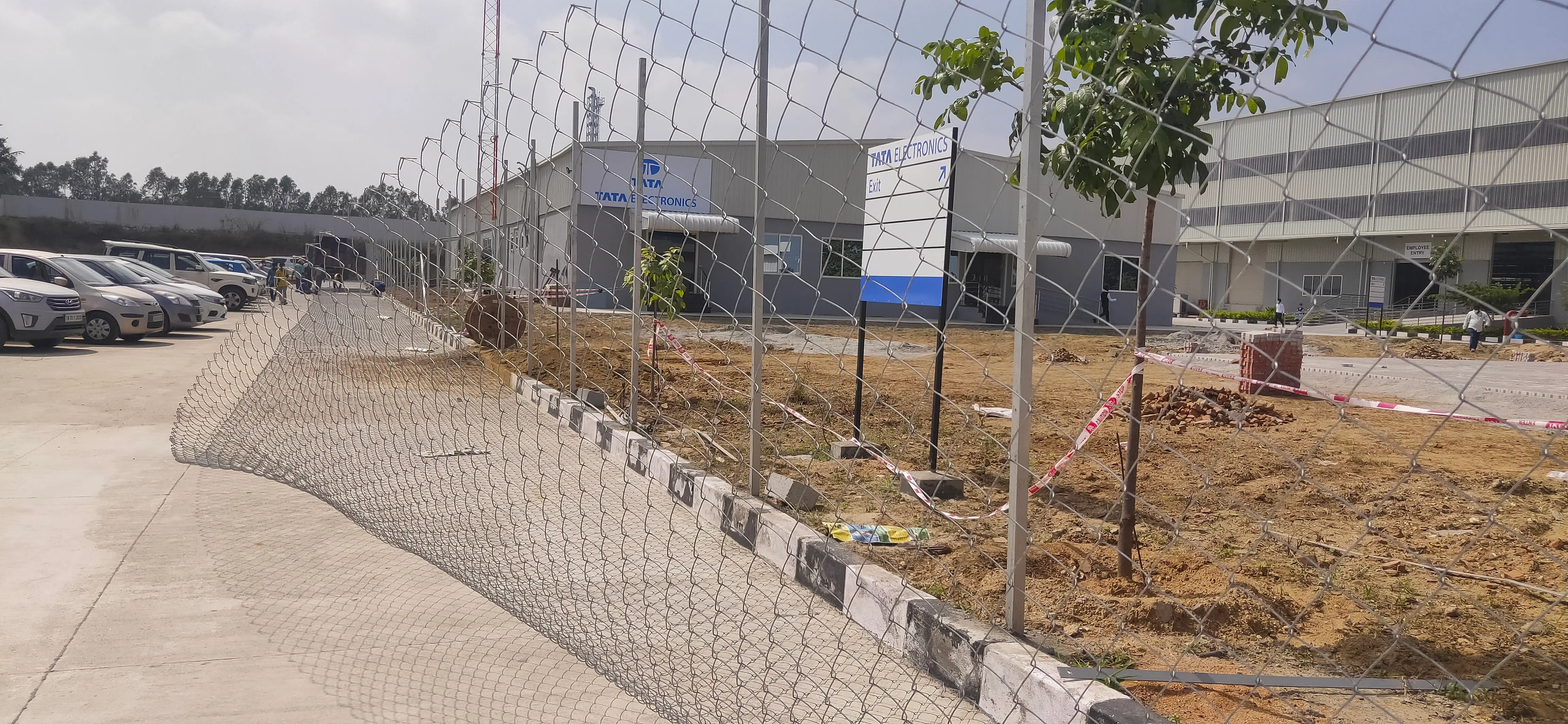
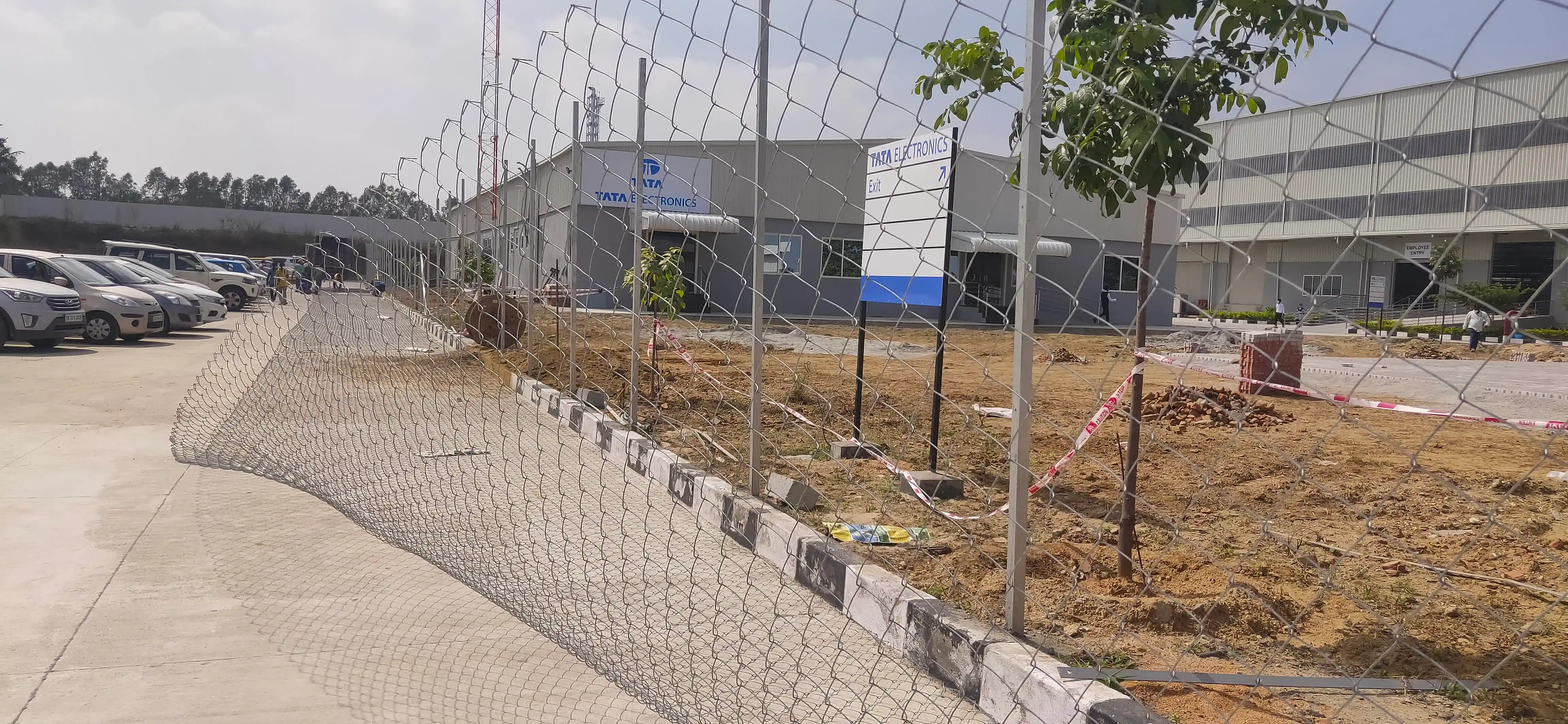
updated documentation for clarity

diff --git a/src/components/GsapAnimations.tsx b/src/components/GsapAnimations.tsx
@@ -7,6 +7,7 @@ import { ScrollTrigger } from "gsap/ScrollTrigger";
 export function GsapAnimations() {
   useEffect(() => {
     if (typeof window === "undefined") return;
+
     gsap.registerPlugin(ScrollTrigger);
 
     const prefersReduced = window.matchMedia(
@@ -14,8 +15,11 @@ export function GsapAnimations() {
     ).matches;
 
     const ctx = gsap.context(() => {
+      // ------------------------------------------------------------------
       // Scroll progress bar
+      // ------------------------------------------------------------------
       const bar = document.getElementById("scroll-progress");
+
       if (bar) {
         gsap.to(bar, {
           scaleX: 1,
@@ -31,36 +35,86 @@ export function GsapAnimations() {
 
       if (prefersReduced) return;
 
-      // Hero entrance — staggered split words
-      gsap.from("[data-hero-word]", {
-        y: 90,
+      // ============================================================
+      // HERO
+      // ============================================================
+
+      // Hero words
+      gsap.set("[data-hero-word]", {
         opacity: 0,
-        duration: 1.1,
-        ease: "power4.out",
-        stagger: 0.06,
-        delay: 0.1,
-      });
-      gsap.from("[data-hero-sub]", {
-        y: 24,
-        opacity: 0,
-        duration: 0.9,
-        delay: 0.55,
-        ease: "power3.out",
-      });
-      gsap.from("[data-hero-cta]", {
-        y: 18,
-        opacity: 0,
-        duration: 0.7,
-        delay: 0.8,
-        stagger: 0.08,
-        ease: "power3.out",
+        y: 30,
+        willChange: "transform, opacity",
       });
 
-      // Parallax for any [data-parallax] element (relative to its parent)
-      gsap.utils.toArray<HTMLElement>("[data-parallax]").forEach((el) => {
-        const speed = parseFloat(el.dataset.parallax || "0.3");
+      gsap.to("[data-hero-word]", {
+        opacity: 1,
+        y: 0,
+        duration: 0.85,
+        ease: "power3.out",
+        stagger: 0.06,
+        delay: 0.05,
+        clearProps: "willChange",
+      });
+
+      // Hero subtitle
+      gsap.set("[data-hero-sub]", {
+        opacity: 0,
+        y: 18,
+        willChange: "transform, opacity",
+      });
+
+      gsap.to("[data-hero-sub]", {
+        opacity: 1,
+        y: 0,
+        duration: 0.7,
+        delay: 0.35,
+        ease: "power2.out",
+        clearProps: "willChange",
+      });
+
+      // Hero buttons
+      gsap.set("[data-hero-cta]", {
+        opacity: 0,
+        y: 15,
+        willChange: "transform, opacity",
+      });
+
+      gsap.to("[data-hero-cta]", {
+        opacity: 1,
+        y: 0,
+        duration: 0.6,
+        stagger: 0.08,
+        delay: 0.55,
+        ease: "power2.out",
+        clearProps: "willChange",
+      });
+
+      // ============================================================
+      // Hero image parallax
+      // ============================================================
+
+      gsap.utils.toArray<HTMLElement>("[data-hero-bg]").forEach((el) => {
         gsap.to(el, {
-          yPercent: -speed * 100,
+          yPercent: 12,
+          ease: "none",
+          scrollTrigger: {
+            trigger: el.parentElement,
+            start: "top top",
+            end: "bottom top",
+            scrub: true,
+          },
+        });
+      });
+
+      // ============================================================
+      // Generic parallax
+      // ============================================================
+
+      gsap.utils.toArray<HTMLElement>("[data-parallax]").forEach((el) => {
+        const speed = Number(el.dataset.parallax ?? 0.3);
+
+        gsap.to(el, {
+          yPercent: -(speed * 100),
           ease: "none",
           scrollTrigger: {
             trigger: el.parentElement,
@@ -71,32 +125,16 @@ export function GsapAnimations() {
         });
       });
 
-      // Hero image parallax + scale
-      gsap.utils.toArray<HTMLElement>("[data-hero-bg]").forEach((el) => {
-        gsap.fromTo(
-          el,
-          { scale: 1.05, yPercent: 0 },
-          {
-            scale: 1,
-            yPercent: 18,
-            ease: "none",
-            scrollTrigger: {
-              trigger: el.parentElement,
-              start: "top top",
-              end: "bottom top",
-              scrub: true,
-            },
-          },
-        );
-      });
+      // ============================================================
+      // Reveal sections
+      // ============================================================
 
-      // Reveal on scroll
       gsap.utils.toArray<HTMLElement>("[data-reveal]").forEach((el) => {
         gsap.from(el, {
-          y: 60,
           opacity: 0,
-          duration: 1,
-          ease: "power3.out",
+          y: 40,
+          duration: 0.8,
+          ease: "power2.out",
           scrollTrigger: {
             trigger: el,
             start: "top 85%",
@@ -105,16 +143,21 @@ export function GsapAnimations() {
         });
       });
 
-      // Stagger children
+      // ============================================================
+      // Stagger items
+      // ============================================================
+
       gsap.utils.toArray<HTMLElement>("[data-stagger]").forEach((parent) => {
         const items = parent.querySelectorAll("[data-stagger-item]");
+
         if (!items.length) return;
+
         gsap.from(items, {
-          y: 60,
           opacity: 0,
-          duration: 0.9,
-          ease: "power3.out",
-          stagger: 0.09,
+          y: 30,
+          duration: 0.7,
+          ease: "power2.out",
+          stagger: 0.08,
           scrollTrigger: {
             trigger: parent,
             start: "top 82%",
@@ -123,11 +166,16 @@ export function GsapAnimations() {
         });
       });
 
-      // Pinned horizontal product scroll (Apple-style)
+      // ============================================================
+      // Horizontal product scroll
+      // ============================================================
+
       const hScroll = document.querySelector<HTMLElement>("[data-h-scroll]");
       const hTrack = document.querySelector<HTMLElement>("[data-h-track]");
+
       if (hScroll && hTrack && window.innerWidth >= 900) {
         const distance = () => hTrack.scrollWidth - window.innerWidth + 120;
+
         gsap.to(hTrack, {
           x: () => -distance(),
           ease: "none",
@@ -143,21 +191,29 @@ export function GsapAnimations() {
         });
       }
 
-      // Card stack scroll — pin and reveal cards on top of each other
-      const stackContainer =
-        document.querySelector<HTMLElement>("[data-card-stack]");
-      if (stackContainer) {
-        const cards =
-          stackContainer.querySelectorAll<HTMLElement>("[data-stack-card]");
-        cards.forEach((card, i) => {
-          if (i === 0) return;
+      // ============================================================
+      // Card stack
+      // ============================================================
+
+      const stack = document.querySelector<HTMLElement>("[data-card-stack]");
+
+      if (stack) {
+        const cards = stack.querySelectorAll<HTMLElement>("[data-stack-card]");
+
+        cards.forEach((card, index) => {
+          if (index === 0) return;
+
           gsap.fromTo(
             card,
-            { y: 80, scale: 0.94, opacity: 0 },
             {
+              opacity: 0,
+              y: 50,
+              scale: 0.97,
+            },
+            {
+              opacity: 1,
               y: 0,
               scale: 1,
-              opacity: 1,
               ease: "power2.out",
               scrollTrigger: {
                 trigger: card,
@@ -170,25 +226,37 @@ export function GsapAnimations() {
         });
       }
 
-      // Counter animation
+      // ============================================================
+      // Counter
+      // ============================================================
+
       gsap.utils.toArray<HTMLElement>("[data-count]").forEach((el) => {
-        const target = parseFloat(el.dataset.count || "0");
-        const decimals = target % 1 !== 0 ? 1 : 0;
+        const target = Number(el.dataset.count || 0);
         const suffix = el.dataset.suffix || "";
-        const obj = { val: 0 };
-        gsap.to(obj, {
-          val: target,
+        const decimals = target % 1 ? 1 : 0;
+
+        const value = { current: 0 };
+
+        gsap.to(value, {
+          current: target,
           duration: 2,
           ease: "power2.out",
-          scrollTrigger: { trigger: el, start: "top 85%", once: true },
+          scrollTrigger: {
+            trigger: el,
+            start: "top 85%",
+            once: true,
+          },
           onUpdate() {
-            el.textContent = obj.val.toFixed(decimals) + suffix;
+            el.textContent = value.current.toFixed(decimals) + suffix;
           },
         });
       });
-    });
+    }, document.body);
 
-    return () => ctx.revert();
+    return () => {
+      ctx.revert();
+      ScrollTrigger.getAll().forEach((trigger) => trigger.kill());
+    };
   }, []);
 
   return null;

diff --git a/next.config.ts b/next.config.ts
@@ -1,35 +1,19 @@
-// next.config.ts (or next.config.js) — OPTIMISED
-// Place this at your project root
-
 import type { NextConfig } from "next";
 
 const nextConfig: NextConfig = {
-  images: {
-    // FIX: Add WebP and AVIF formats — AVIF is ~50% smaller than JPEG on mobile.
-    // Next.js will serve AVIF to browsers that support it automatically.
-    formats: ["image/avif", "image/webp"],
-
-    // FIX: Tighten the device size breakpoints to avoid generating
-    // unnecessarily large image variants. Mobile gets 640px max.
-    deviceSizes: [375, 640, 750, 828, 1080, 1200, 1920],
-    imageSizes: [16, 32, 48, 64, 96, 128, 256, 360],
-
-    // FIX: Raise the minimum cache TTL to 1 week.
-    // By default Next.js caches images for only 60s,
-    // meaning mobile users refetch on every visit.
-    minimumCacheTTL: 604800, // 7 days in seconds
-  },
-
-  // FIX: Enable compression if not already on (gzip/brotli for all responses)
   compress: true,
 
-  // Optional: if you're on Vercel this is automatic.
-  // If self-hosting, add this to get proper cache headers:
+  images: {
+    formats: ["image/avif", "image/webp"],
+    deviceSizes: [375, 640, 750, 828, 1080, 1200, 1920],
+    imageSizes: [16, 32, 48, 64, 96, 128, 256, 360],
+    minimumCacheTTL: 60 * 60 * 24 * 7, // 7 days
+  },
+
   async headers() {
     return [
       {
-        // Cache all static assets aggressively
-        source: "/(.*\\.(?:jpg|jpeg|png|webp|avif|svg|ico|woff2|woff|js|css))",
+        source: "/products/:path*",
         headers: [
           {
             key: "Cache-Control",
@@ -38,12 +22,11 @@ const nextConfig: NextConfig = {
         ],
       },
       {
-        // HTML pages — shorter cache so SEO changes propagate
-        source: "/(.*)",
+        source: "/gallery/:path*",
         headers: [
           {
             key: "Cache-Control",
-            value: "public, max-age=3600, stale-while-revalidate=86400",
+            value: "public, max-age=31536000, immutable",
           },
         ],
       },
